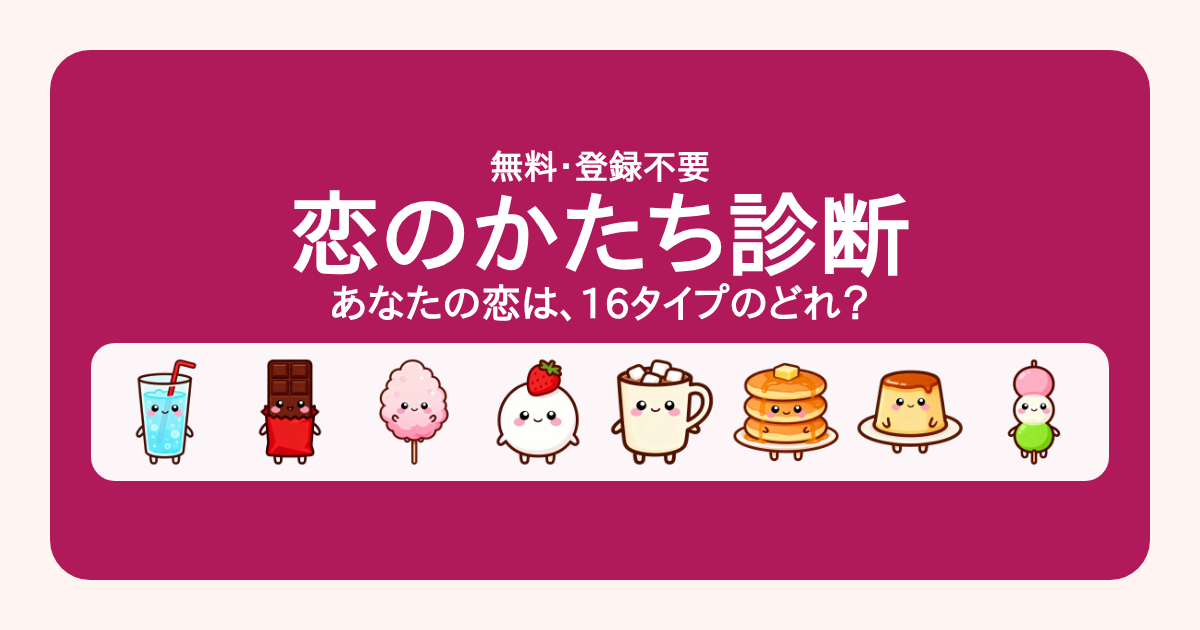
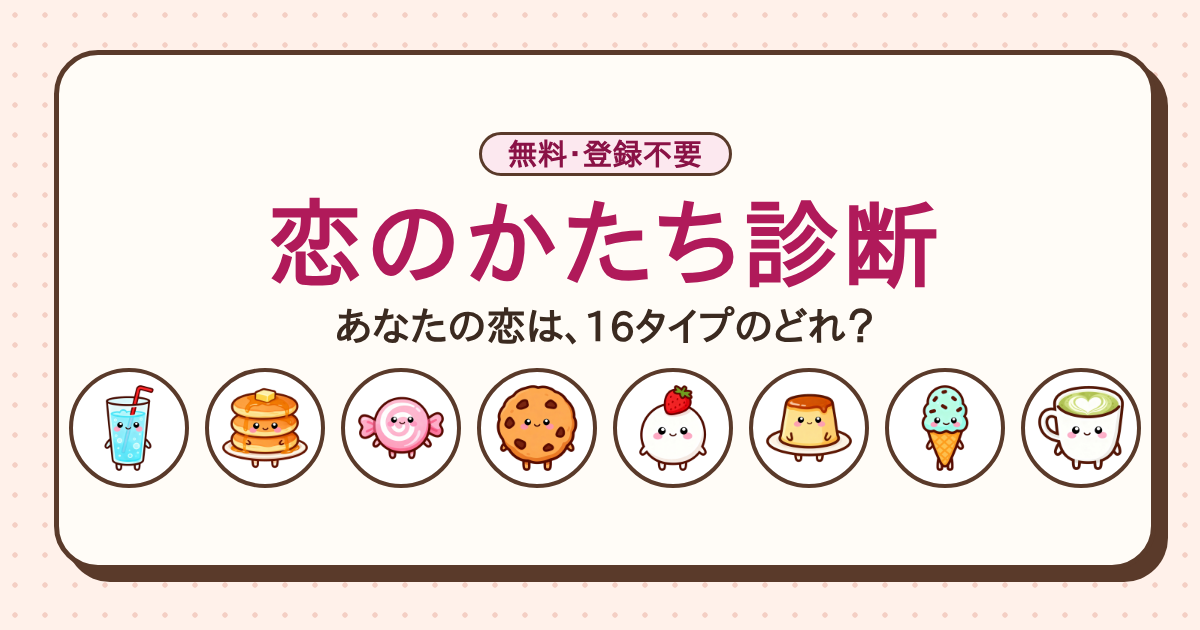
恋のかたち診断：本文から研究者の名前と年を外す（一覧だけに）・紹介画像を新しい見た目で作り直す
Claude-Session: https://claude.ai/code/session_01VNhb2iCPFHtHjevBTfmMUk

diff --git a/koi16/index.html b/koi16/index.html
@@ -491,7 +491,7 @@ function kuseHTML(me){
     '<h3 style="margin-top:12px">気をつけたいところ</h3><p>'+esc(K.care)+'</p>'+
     '<div class="say">'+esc(K.tip)+'</div>';
   if(near.length){ h+='<p class="muted" style="margin-top:10px">境目の近くにいるので、となりの「'+near.map(function(n){return esc(kuseName(n));}).join('」「')+'」の面もあわせ持っています。</p>'; }
-  h+='<p class="muted" style="margin-top:10px">心のくせは、恋愛心理学の「愛着」の研究で使われる2つのものさし（見捨てられる不安と、親密さを避ける気持ち）を組み合わせたものです（古村ほか, 2016／中尾・加藤, 2004）。経験や相手によって変わることもあり、どの心のくせにも、その人らしい強みがあります。</p><p><button class="linkbtn" type="button" data-act="about">この診断の考え方を見る</button></p></section>';
+  h+='<p class="muted" style="margin-top:10px">心のくせは、恋愛心理学の「愛着」の研究で使われる2つのものさし（見捨てられる不安と、親密さを避ける気持ち）を組み合わせたものです。経験や相手によって変わることもあり、どの心のくせにも、その人らしい強みがあります。</p><p><button class="linkbtn" type="button" data-act="about">この診断の考え方を見る</button></p></section>';
   return h;
 }
 
@@ -698,7 +698,7 @@ function startQuiz(fresh,m){
 }
 var STATUS = {
   partner:{n:'恋人・パートナーがいる',hint:'',note:''},
-  crush:{n:'片思い中',hint:'「恋人」とある質問は、好きな人と付き合ったときを思い浮かべて答えてください。',note:'片思いのときは、ときめきが強く出やすい時期です。研究でも、片思いの人は「情熱」が恋人のいる人と同じくらい高い一方で、「親しさ」や「この関係を続けようという気持ち」は低めに出ることがわかっています（金政・大坊, 2003）。'},
+  crush:{n:'片思い中',hint:'「恋人」とある質問は、好きな人と付き合ったときを思い浮かべて答えてください。',note:'片思いのときは、ときめきが強く出やすい時期です。研究でも、片思いの人は「情熱」が恋人のいる人と同じくらい高い一方で、「親しさ」や「この関係を続けようという気持ち」は低めに出ることがわかっています。'},
   none:{n:'いまはいない',hint:'「恋人」とある質問は、前の恋や、恋人がいるときを思い浮かべて答えてください。',note:'前の恋や、恋人がいるときを思い浮かべた結果です。'}
 };
 function pickStatus(k){
@@ -837,31 +837,31 @@ var REFS = [
 var ABOUT = [
  {h:'頼り方（寄りかかれる／自分で立つ）',tag:'res',
   base:'恋愛心理学の「愛着」の研究で使われる、「親密さを避ける気持ち」というものさしを参考にしています。',
-  found:['この気持ちは、相手に頼る・打ち明ける・心を開くことへの抵抗として測られ、「人は頼れる存在か」という人への見方と関係していました（中尾・加藤, 2004）。',
-         '見捨てられる不安とは別々の傾向で、片方が強いからといって、もう片方も強いとは限りません（古村ほか, 2016／中尾・加藤, 2004）。',
-         '会う回数や連絡の回数は、愛情のどの面とも同じくらいに関係していて、その人らしさを見分ける手がかりにはなりにくいことがわかっています（金政・大坊, 2003）。'],
+  found:['この気持ちは、相手に頼る・打ち明ける・心を開くことへの抵抗として測られ、「人は頼れる存在か」という人への見方と関係していました。',
+         '見捨てられる不安とは別々の傾向で、片方が強いからといって、もう片方も強いとは限りません。',
+         '会う回数や連絡の回数は、愛情のどの面とも同じくらいに関係していて、その人らしさを見分ける手がかりにはなりにくいことがわかっています。'],
   use:'そのため、連絡の回数ではなく「つらいときに頼れるか」「本音を打ち明けられるか」を聞いています。'},
  {h:'心のゆれやすさ',tag:'res',
   base:'同じく「愛着」の研究で使われる、「見捨てられる不安」というものさしを参考にしています。',
-  found:['この不安は、「自分は愛される価値があるか」という自分への見方と強く関係していました（中尾・加藤, 2004）。',
-         '恋人への不安が強い人ほど、気持ちが落ちこみやすい傾向も報告されています（古村ほか, 2016）。',
-         '平均の点数に、男女の差は見られませんでした（中尾・加藤, 2004）。'],
+  found:['この不安は、「自分は愛される価値があるか」という自分への見方と強く関係していました。',
+         '恋人への不安が強い人ほど、気持ちが落ちこみやすい傾向も報告されています。',
+         '平均の点数に、男女の差は見られませんでした。'],
   use:'そのため、男女で分けずに測り、「ゆれやすい」と出た人には、つらさが続くときは信頼できる人や専門家に話してほしいと添えています。'},
  {h:'恋の原動力（ときめき優先／安心優先）',tag:'res',
   base:'恋愛の型の研究（リーの恋愛類型論）と、愛情を「親しさ・情熱・この関係を続けようという気持ち」の3つで見る研究（愛情の三角理論）を参考にしています。',
-  found:['ときめき（情熱）と安心（親しさ）は、片方が強いともう片方が弱くなる「反対どうし」ではなく、両方とも強い人もいました（松井, 1993／金政・大坊, 2003）。',
-         '付き合いが長くなるほど、親しさと「続けようという気持ち」は育ちますが、情熱は増えていきませんでした（金政・大坊, 2003）。',
-         '恋の進み具合によって、恋への気持ちのあり方が変わることも報告されています（松井, 1993）。'],
+  found:['ときめき（情熱）と安心（親しさ）は、片方が強いともう片方が弱くなる「反対どうし」ではなく、両方とも強い人もいました。',
+         '付き合いが長くなるほど、親しさと「続けようという気持ち」は育ちますが、情熱は増えていきませんでした。',
+         '恋の進み具合によって、恋への気持ちのあり方が変わることも報告されています。'],
   use:'そのため、「どちらが強いか」ではなく「どちらを優先するか」を聞いています。'},
  {h:'いまの恋の状況',tag:'res',
   base:'恋人がいる・片思い中・いないで、答え方が変わりやすいことが研究でわかっています。',
-  found:['片思いの人は、情熱は恋人がいる人と同じくらい高い一方で、親しさや「続けようという気持ち」は低めでした（金政・大坊, 2003）。',
-         '恋の進み具合によって、ときめきや尽くしたい気持ちの強さが変わっていきました（松井, 1993）。'],
+  found:['片思いの人は、情熱は恋人がいる人と同じくらい高い一方で、親しさや「続けようという気持ち」は低めでした。',
+         '恋の進み具合によって、ときめきや尽くしたい気持ちの強さが変わっていきました。'],
   use:'そのため、はじめに今の状況を聞き、結果にも添えています。'},
  {h:'恋の心のくせ',tag:'res',
-  base:'「見捨てられる不安」と「親密さを避ける気持ち」の2つを組み合わせると、4つの型に分けられるという考え方を参考にしています（中尾・加藤, 2004）。',
-  found:['1ヶ月あけて同じ人に答えてもらうと、点数はよく一致した一方で、4つの型がそのまま同じだった人は約3人に2人でした（中尾・加藤, 2004）。境目の近くにいる人ほど、型は入れかわりやすいということです。',
-         '恋人への気持ちは、親や友だちへの気持ちにくらべて変わりやすいことも報告されています（古村ほか, 2016）。'],
+  base:'「見捨てられる不安」と「親密さを避ける気持ち」の2つを組み合わせると、4つの型に分けられるという考え方を参考にしています。',
+  found:['1ヶ月あけて同じ人に答えてもらうと、点数はよく一致した一方で、4つの型がそのまま同じだった人は約3人に2人でした。境目の近くにいる人ほど、型は入れかわりやすいということです。',
+         '恋人への気持ちは、親や友だちへの気持ちにくらべて変わりやすいことも報告されています。'],
   use:'そのため、型の名前だけでなく地図で位置を見せ、境目の近くにいる人には、となりの型の面もあわせ持っていると添えています。'},
  {h:'近づき方・気持ちの伝え方',tag:'own',
   base:'この2つは、研究で確かめられたものさしではなく、この診断の独自のものさしです。',

diff --git a/CLAUDE.md b/CLAUDE.md
@@ -55,10 +55,10 @@
 
 - 質問40問で決まる16タイプの恋愛診断（**四柱推命は使わない**＝鑑定者本人の指示）。目的は無料の入口（集客）、今の3サイトとは別のサイト。名前「恋のかたち診断」と16タイプのキャラクター名（スイーツ）・本格名は決定（鑑定者本人 2026-11-12「名前はこのままでいい」）。
 - 4つのものさし：近づき方 L/R・気持ちの伝え方 V/A・頼り方 T/S（寄りかかれる／自分で立つ）・恋の原動力 P/C（ときめき優先／安心優先）（各8問）＋心のゆれやすさ（8問。タイプとは別）。本格名＋キャラクター名の両方を出す。相性は4つのものさしの組み合わせで計算（100点満点）。
-- **本格版への作り直し**（鑑定者本人の指示 2026-11-12「これらの文献をもとにもっと本格的な診断を」「その案で進めて」）：鑑定者本人が渡した論文4本＝古村・村上・戸田（2016）ECR-RS日本語版／中尾・加藤（2004）ECR-GO／松井（1993）恋愛行動の段階と恋愛意識／金政・大坊（2003）愛情の三角理論。頼り方＝愛着の「回避」（頼る・打ち明ける・心を開く。連絡の回数の質問は使わない）、心のゆれやすさ＝愛着の「見捨てられ不安」（嫉妬・がまん・自尊心の質問は入れない）、恋の原動力＝「どちらを優先するか」の質問（ときめきと安心は反対どうしではないため）。はじめに「今の恋の状況」（恋人がいる／片思い中／いない）を聞き、結果に添える（片思いは情熱が高く出やすい＝金政・大坊 2003）。**論文の質問文は写さない**（意味だけを参考にこちらの言葉で書く）。近づき方・気持ちの伝え方は論文の裏づけがない独自のものさし（そう正直に書く）。**恋の心のくせ**（鑑定者本人 2026-11-12「進めてください」）：心のゆれやすさ（不安）×頼り方（回避＝100−T の％）で4つの型＝安心して寄りそえる／相手の気持ちが気になりやすい／ひとりで立とうとする／近づきたいのに少し怖くなる（`KUSE`・`kuseHTML`。境目は各ものさしのまん中＝50、±8以内は「となりの型の面もあわせ持つ」と添える。地図で位置も見せる＝型は点数より変わりやすいため〈中尾・加藤 2004〉。本格版だけ）。研究の型名（拒絶型・恐れ型など）や「良い・悪い」の言い方は出さない。**この診断の考え方**（鑑定者本人 2026-11-12「進めてください」。`?about=1`・`renderAbout`・`ABOUT`・`REFS`）：ものさしごとに「研究を参考にしたところ／独自のところ」の札を付け、もとにした研究・研究でわかっていること・それをどう使ったかを、論文の文を写さずこちらの言葉で書く。論文4本を参考文献として doi・J-STAGE のリンクつきで並べる。「医療や心理の専門的な検査ではない」も書く（「まだ多くの人の答えで確かめていない」は書かない＝鑑定者本人の指示 2026-11-12「こんなことが書いてあるサイトは見たことがないので削除」）。読んでいない論文（報道で知っただけのもの）は参考文献に入れない。はじめの画面・恋の心のくせの欄・ページの下から開ける。**診断サイトを研究（答えを集めること）には使わない**（鑑定者本人の判断 2026-11-12「診断サイトを研究には使えません」）：答えを送るしくみ・同意のチェック・年代や性別の欄・サーバーの受け口は入れない（一度作ったが取り外した）。結果は端末の中だけに保存し、「どこにも送りません」の説明のままにする。質問の確かめが必要になったときは、診断サイトとは別の方法を鑑定者本人と決める。
+- **本格版への作り直し**（鑑定者本人の指示 2026-11-12「これらの文献をもとにもっと本格的な診断を」「その案で進めて」）：鑑定者本人が渡した論文4本＝古村・村上・戸田（2016）ECR-RS日本語版／中尾・加藤（2004）ECR-GO／松井（1993）恋愛行動の段階と恋愛意識／金政・大坊（2003）愛情の三角理論。頼り方＝愛着の「回避」（頼る・打ち明ける・心を開く。連絡の回数の質問は使わない）、心のゆれやすさ＝愛着の「見捨てられ不安」（嫉妬・がまん・自尊心の質問は入れない）、恋の原動力＝「どちらを優先するか」の質問（ときめきと安心は反対どうしではないため）。はじめに「今の恋の状況」（恋人がいる／片思い中／いない）を聞き、結果に添える（片思いは情熱が高く出やすい＝金政・大坊 2003）。**論文の質問文は写さない**（意味だけを参考にこちらの言葉で書く）。近づき方・気持ちの伝え方は論文の裏づけがない独自のものさし（そう正直に書く）。**恋の心のくせ**（鑑定者本人 2026-11-12「進めてください」）：心のゆれやすさ（不安）×頼り方（回避＝100−T の％）で4つの型＝安心して寄りそえる／相手の気持ちが気になりやすい／ひとりで立とうとする／近づきたいのに少し怖くなる（`KUSE`・`kuseHTML`。境目は各ものさしのまん中＝50、±8以内は「となりの型の面もあわせ持つ」と添える。地図で位置も見せる＝型は点数より変わりやすいため〈中尾・加藤 2004〉。本格版だけ）。研究の型名（拒絶型・恐れ型など）や「良い・悪い」の言い方は出さない。**この診断の考え方**（鑑定者本人 2026-11-12「進めてください」。`?about=1`・`renderAbout`・`ABOUT`・`REFS`）：ものさしごとに「研究を参考にしたところ／独自のところ」の札を付け、もとにした研究・研究でわかっていること・それをどう使ったかを、論文の文を写さずこちらの言葉で書く。論文4本を参考文献として doi・J-STAGE のリンクつきで並べる。**本文（考え方の説明・恋の心のくせ・恋の状況の説明）には研究者の名前と年〈（中尾・加藤, 2004）など〉を入れない**（鑑定者本人の指示 2026-11-12「名前はいれたくない」。名前は「参考にした研究」の一覧だけ）。「医療や心理の専門的な検査ではない」も書く（「まだ多くの人の答えで確かめていない」は書かない＝鑑定者本人の指示 2026-11-12「こんなことが書いてあるサイトは見たことがないので削除」）。読んでいない論文（報道で知っただけのもの）は参考文献に入れない。はじめの画面・恋の心のくせの欄・ページの下から開ける。**診断サイトを研究（答えを集めること）には使わない**（鑑定者本人の判断 2026-11-12「診断サイトを研究には使えません」）：答えを送るしくみ・同意のチェック・年代や性別の欄・サーバーの受け口は入れない（一度作ったが取り外した）。結果は端末の中だけに保存し、「どこにも送りません」の説明のままにする。質問の確かめが必要になったときは、診断サイトとは別の方法を鑑定者本人と決める。
 - 参考にした lovetype16.jp の軸・名前・文章・絵は使わない（相手のサイトは無断利用禁止）。答えは端末の中だけに保存。
 - **本格版（40問）とかんたん版（16問）**（鑑定者本人の指示 2026-11-12）：かんたん版は4つのものさしから4問ずつ（`QUICK`）。心のゆれやすさは本格版だけ（かんたん版の結果には「本格版で、もっと正確に」の案内）。
-- **16キャラクターの絵**：鑑定者本人が pollo.ai で作った絵（2026-11-12。`koi16/img/タイプ4文字.png`。16タイプすべて入れた。ひみつのチョコミント〈RASP〉も手足のある絵に差しかえ済み）。SNSの紹介画像 `og-image.png` も同じ絵で作る。白い背景や描きこまれた市松模様は `python3 -I tools/koi16_cutout.py 元の画像 koi16/img/LVTP.png` で消して透明にし（取っ手の輪の中など囲まれた背景は、元の画像の位置 `x,y` を足して消す）、`CHARA_IMG` にタイプを足す。画像がないタイプ・読めないときは、こちらで描いたSVG（`ART`・`artSvg`）を出す。保存する画像も同じ絵。ほかのサイトの絵は使わない。作り方の共通の指示は「白い背景・小さな手と足・太い茶色のふちどり」。名前・肩書きは言葉の切れ目でだけ改行する（`cname`・`fname`。泣き別れを作らない）。
+- **16キャラクターの絵**：鑑定者本人が pollo.ai で作った絵（2026-11-12。`koi16/img/タイプ4文字.png`。16タイプすべて入れた。ひみつのチョコミント〈RASP〉も手足のある絵に差しかえ済み）。SNSの紹介画像 `og-image.png` も同じ絵・同じ見た目（ピーチの水玉・ミルク色のカード・こげ茶のふちと影。8つのキャラクターは4つの色の仲間から2つずつ）で作る。白い背景や描きこまれた市松模様は `python3 -I tools/koi16_cutout.py 元の画像 koi16/img/LVTP.png` で消して透明にし（取っ手の輪の中など囲まれた背景は、元の画像の位置 `x,y` を足して消す）、`CHARA_IMG` にタイプを足す。画像がないタイプ・読めないときは、こちらで描いたSVG（`ART`・`artSvg`）を出す。保存する画像も同じ絵。ほかのサイトの絵は使わない。作り方の共通の指示は「白い背景・小さな手と足・太い茶色のふちどり」。名前・肩書きは言葉の切れ目でだけ改行する（`cname`・`fname`。泣き別れを作らない）。
 - **見た目**（鑑定者本人の選択 2026-11-12「1にします」＝見本 A・B・D を混ぜた案）：ピーチの地（`--bg:#FFF1EA`）にうすい水玉、カードはミルク色（`--card:#FFFCF7`）、ボタンはローズ（`--rose:#B01A5A`）。カード・ボタン・札・キャラクターの丸に、**絵と同じこげ茶（`--brown:#5A3A2A`）のふちどりと、ずらした影**（シール風）。タイプの4色の仲間はそのまま。保存する画像も同じこげ茶のふちと影。はじめの画面のキャラクターは4つの色の仲間から2つずつ、4つ×2段。
 - **スマホが本命・泣き別れゼロ**（鑑定者本人の指示 2026-11-12「泣き崩れは起こさないような書き方に」「スマホが100％」）：文のおしまいの5文字はいっしょに改行（`glue`・`.nb`）、名前・肩書き・ボタンの文字は言葉の切れ目でだけ改行（`.nw`）、保存する画像の文は読点で切って行の長さをそろえ、最後の行を4文字以上に（`wrapLines`）。文を足したり直したりしたら `node tools/release_gate/gate_koi16.cjs` を回す（幅320・360・375・390・414・430pxで、全画面の泣き別れ・横はみ出し・44px未満のボタンが0件になること）。
 - **集客の案内先＝「1.66 奇跡の相性診断」**（鑑定者本人の指示 2026-11-12）：結果の下に「次は、生年月日で」の案内。公開URLは `https://166unmei.com/`（鑑定者本人 2026-11-12。`CTA.url`。空にすると案内は出ない）。`?ref=koi16` を付けて送り、1.66側でどこから来た人か分かるようにする。
